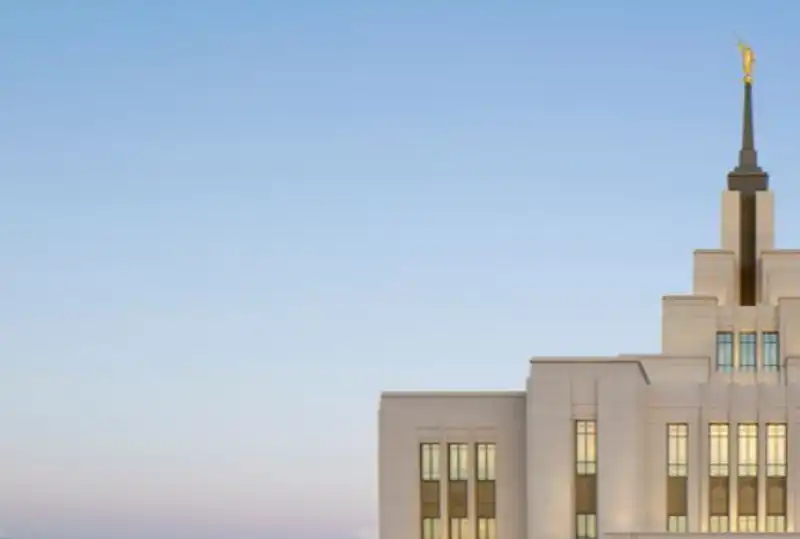
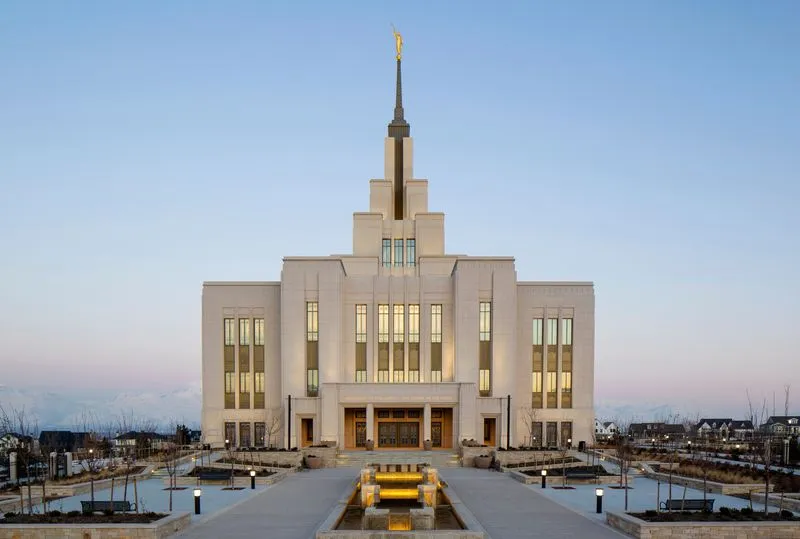
Completed and updated

diff --git a/index.html b/index.html
@@ -40,8 +40,7 @@
             <picture>
                 <source media="(max-width: 500px)" srcset="images/hero-small.webp">
                 <source media="(max-width: 1000px)" srcset="images/hero-medium.webp">
-                <img src="images/saratoga_springs_utah_temple_exteriors.webp"
-                    alt="Responsive image of Saratoga Springs, Utah Temple.">
+                <img src="images/hero-large.webp" alt="Responsive image of Saratoga Springs, Utah Temple.">
 
             </picture>
             <div class="herolabel">
@@ -64,7 +63,7 @@
                         href="lesson03/home.html">The Chamber of Commerce Home Page Build</a></li>
                 <li>Lesson 05 | <a href="lesson05/bom.html">Book of Mormon - Top 10</a> | <a
                         href="chamber/index.html">Chamber Home Page - Dark Mode</a></li>
-                <li>Lesson 06 | <a href="#">Responsive Images</a></li>
+                <li>Lesson 06 | <a href="lesson06/responsive-images.html">Responsive Images</a></li>
                 <!-- Add more activities as needed-->
             </ul>
 

diff --git a/lesson06/responsive-images.html b/lesson06/responsive-images.html
@@ -25,8 +25,8 @@
         <div class="hero">
             <picture>
                 <source media="(max-width: 500px)" srcset="images/hero-small.webp">
-                <source medi="(max-width: 1000px)" srcset="images/hero-medium.webp">
-                <img src="images/hero.large.webp" alt="Responsive image of Saratoga Springs, Utah Temple.">
+                <source media="(max-width: 1000px)" srcset="images/hero-medium.webp">
+                <img src="images/hero-large.webp" alt="Responsive image of Saratoga Springs, Utah Temple.">
                 <div class="herolabel">
                     <p>Saratoga Springs Temple</p>
                 </div>
